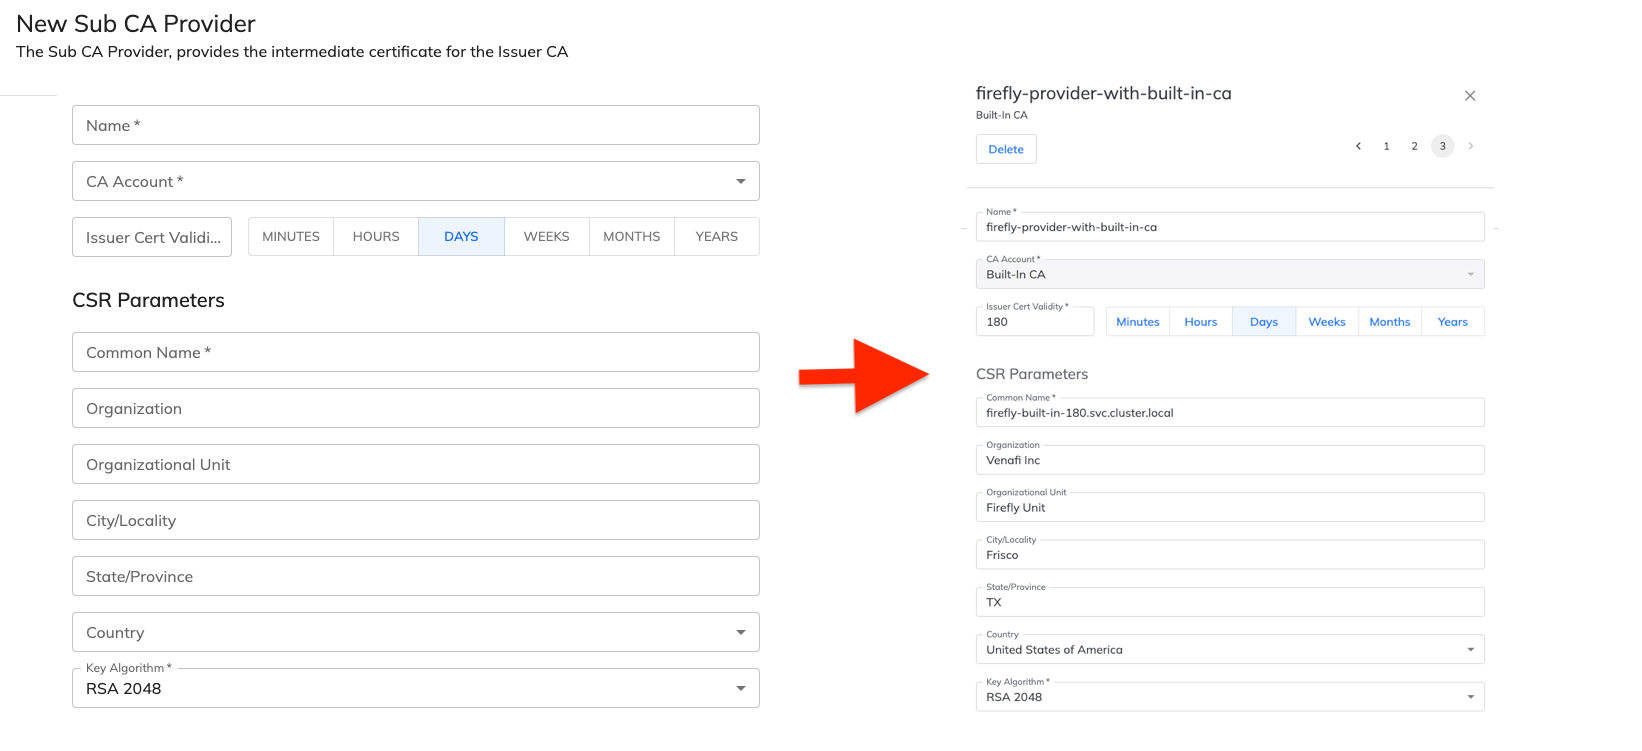
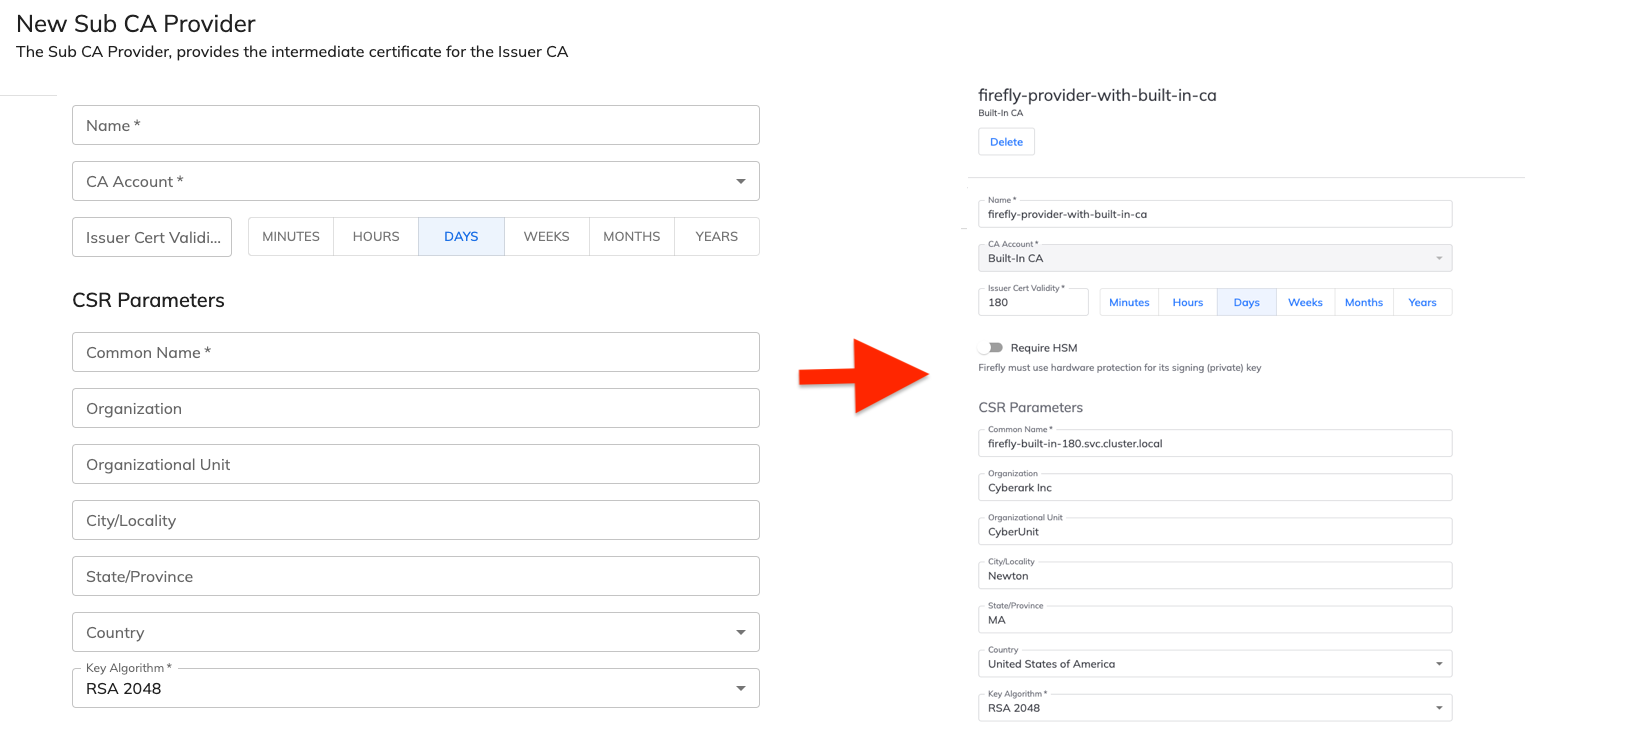
Add readme for configuration + support for multi region

diff --git a/main/scripts/saas/README.md b/main/scripts/saas/README.md
@@ -1,0 +1,102 @@
+# Cyberark Certificate Manager and Workload Identity Manager
+
+## Requirements
+You have access to https://{your-tenant}.venafi.cloud/
+
+## Tenant configuration
+The following steps will need to be performed only one time for each tenant. This is to ensure you have all the configurations in place for demos.
+
+### Creating a Team
+A team represents a collection of users with an associated role. We need to create at least one team. The steps to create a team is captured in the image below.
+
+![Creating a Team](../images/team-creation_resized.png)
+
+### Configuring certificate issuing template
+While you can configure multiple Certificate Authorities and various issuing templates, for this demo we will use the Default template that already exists. The default template is configured out of the box to issue certificate with a validity period of 90 days. For some of the use cases we will issue certificates with a duration longer than 90 days. Let's change the default template to support that. 
+
+Access **Policies -> Issuing Templates -> Click on Default**
+Now, simply change the validity from 90 to 365 and click **Save**
+
+### Configuring Cyberark Workload Identity Manager
+
+#### Create SubCA provider 
+In order configure Cyberark Workload Identity Manager, we have to perform a few steps. The first step is to create a subCA provider. The information provided here will be used by runtime to bootstrap an ephemeral CA. 
+
+To create a subCA provider, Access **Policies -> Firefly Sub CA Providers** 
+Click on **New Sub CA Provider -> Venafi Built-In CA** and provide the following values 
+
+| Property          | Type |
+| :---              |    :----:   | 
+| Name   | firefly-provider-with-built-in-ca        | 
+| CA Account      | `Built-In CA`       |
+| Issuer Cert Validity   | 180 Days     | 
+| Common Name   | firefly-built-in-180.svc.cluster.local        | 
+| Organization   | Cyberark Inc        | 
+| Organization Unit   | CyberUnit        | 
+| City/Locality   | Newton        | 
+| State/Province   | MA        |
+| Country   | United States Of America        |  
+| Key Algorithm   | RSA 2048        |  
+
+If you prefer to have different CSR parameters, you can set to whatever you need. Here's how the subCA configuration will look like after you have saved it. 
+
+![WIM-SubCA-Config](../images/firefly-subca-config.png)
+
+#### Create policies
+As a next step , we will create a policy that will be used by the **Workload Identity Manager** issuer for issuing certificates in cluster. The policy model for governing how certificates are issued for workloads is very comprehensive. Read the product documentation for additional details. 
+
+> **NOTE**  Make sure that the policy name matches as it's used during runtime. 
+
+To create a policy 
+- Click "Policies / Firefly Issuance Policies" in left panel 
+- Click New and in the presented screen provide the values for the policy. 
+- Save the policy.
+
+##### Policy  `firefly-istio-service-mesh-policy`
+| Property          | Value |             Type |    Default Value |
+| :---              |    :----:   |        :----:   | :----:   |
+| Name   | `firefly-istio-service-mesh-policy`        |  | |
+| Client Cert Validity      | 1 Hours       | | |
+| Common Name   | `^.*`     | Optional | `Leave it empty` |
+| Organizaton   | `Leave it empty`        |Locked | Cyberark Inc |
+| Organization Unit   | `Leave it empty`        | Locked | CloudApps Unit | 
+| City/Locality   | `Leave it empty`        | Locked | Newton | 
+| State/Province   | `Leave it empty`        | Locked | MA | 
+| Country   | `Leave it empty`        | Locked | USA | 
+|    |         |  |  | 
+|    |         |  |  | 
+| DNS(SAN)   | `^.*`        | Required | Min=1, Max=10 | 
+| IP Address   | `Leave it empty`        | Forbidden | Min=0, Max=0 | 
+| Email Address   | `Leave it empty`        | Forbidden | Min=0, Max=0 | 
+| URI Address   | `^spiffe://cluster\.local/ns/.*/sa/.*`        | Required | Min=1, Max=10 | 
+|    |         |  |  | 
+|    |         |  |  | 
+| Key Constraint   | Select RSA 2048        | Required | RSA 2048  | 
+| Key Usage   | Key Encipherment <br> Digital Signature        | 
+| Extended Key Usage   | Server Authentication <br> Client Authentication        | | 
+
+> > Review the policy[image below]. The `Client Cert Validity` is `1 Hours` and the 'URI Address` is required uses a specific pattern to support SPIFFE identities for the service mesh. When you access "Policies / Firefly Issuance Policies" you should see firefly-istio-service-mesh-policy in addition to any other you may have created. 
+
+![Policy for Istio](../images/firefly-istio-policy.png)
+
+
+#### Creating a configuration for Workload Identity Manager runtime operations
+This is the final step in the UI to prepare Workload Identity Manager for runtime operations. 
+
+To create a configuration,
+- Click "Configurations / Firefly Configurations" in the left panel 
+- Click New and in the presented screen provide a name and the required fields. 
+
+The required fields on the screen are self explanatory. 
+- set the name of the config to `firefly-config-for-demos`
+- From the dropdown for Sub CA Provider, choose  `firefly-provider-with-built-in-ca`
+- From the downdown for policies choose `firefly-istio-service-mesh-policy`
+- Leave the **Service Accounts** empty for now. We will create this at a later time and when we do, we will need to associate the service account. 
+- Set the Client authentication and authorization type to **None**
+- Leave rest of the fields as-is and click Create. Sample configuration below.
+
+
+![Firefly Configuration](../images/fireflyca-config.png)
+
+
+
